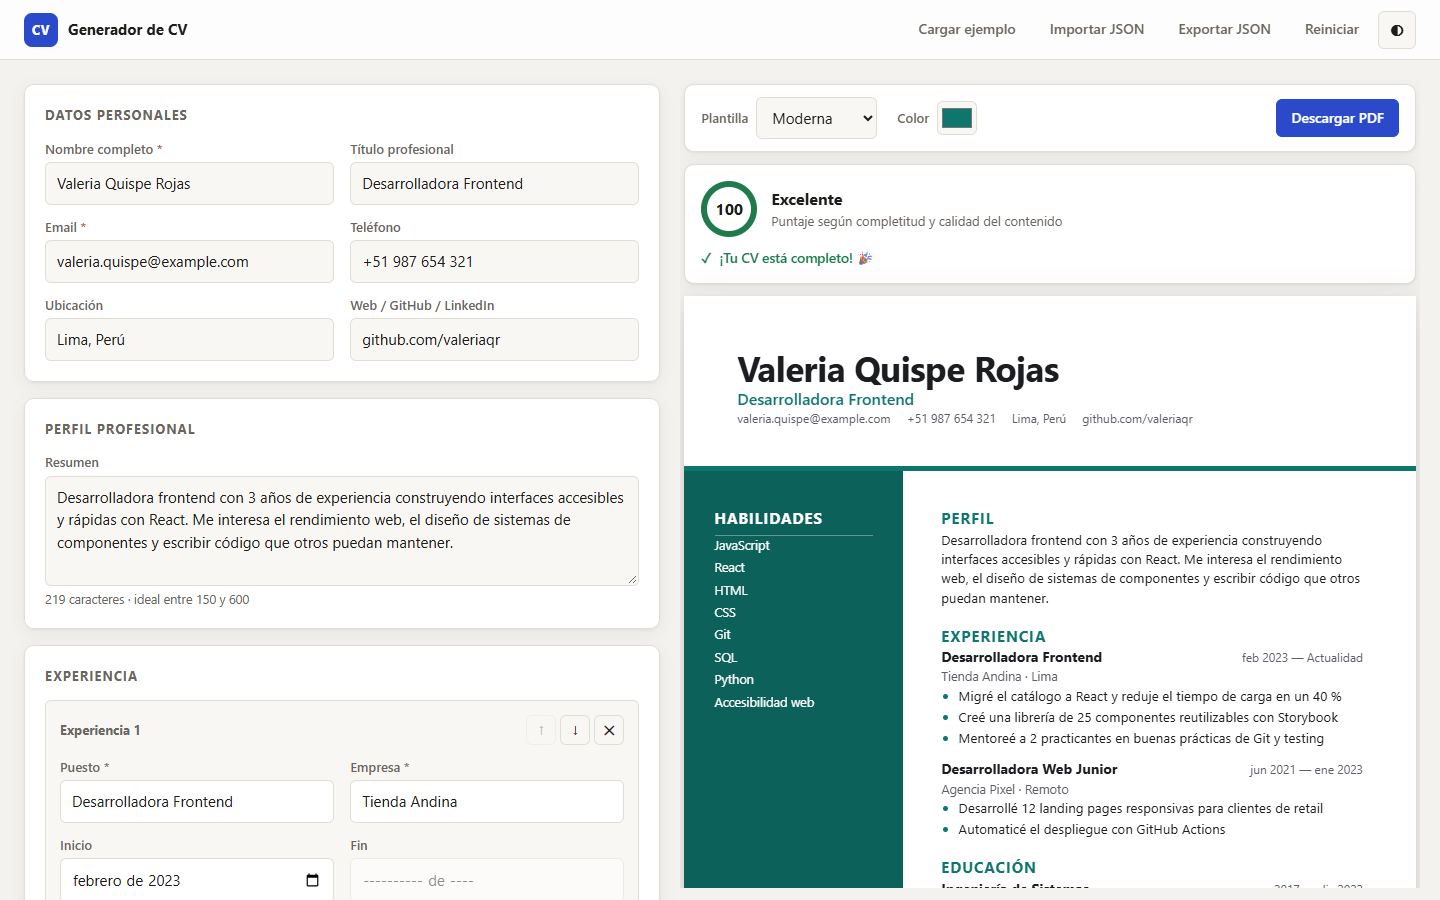
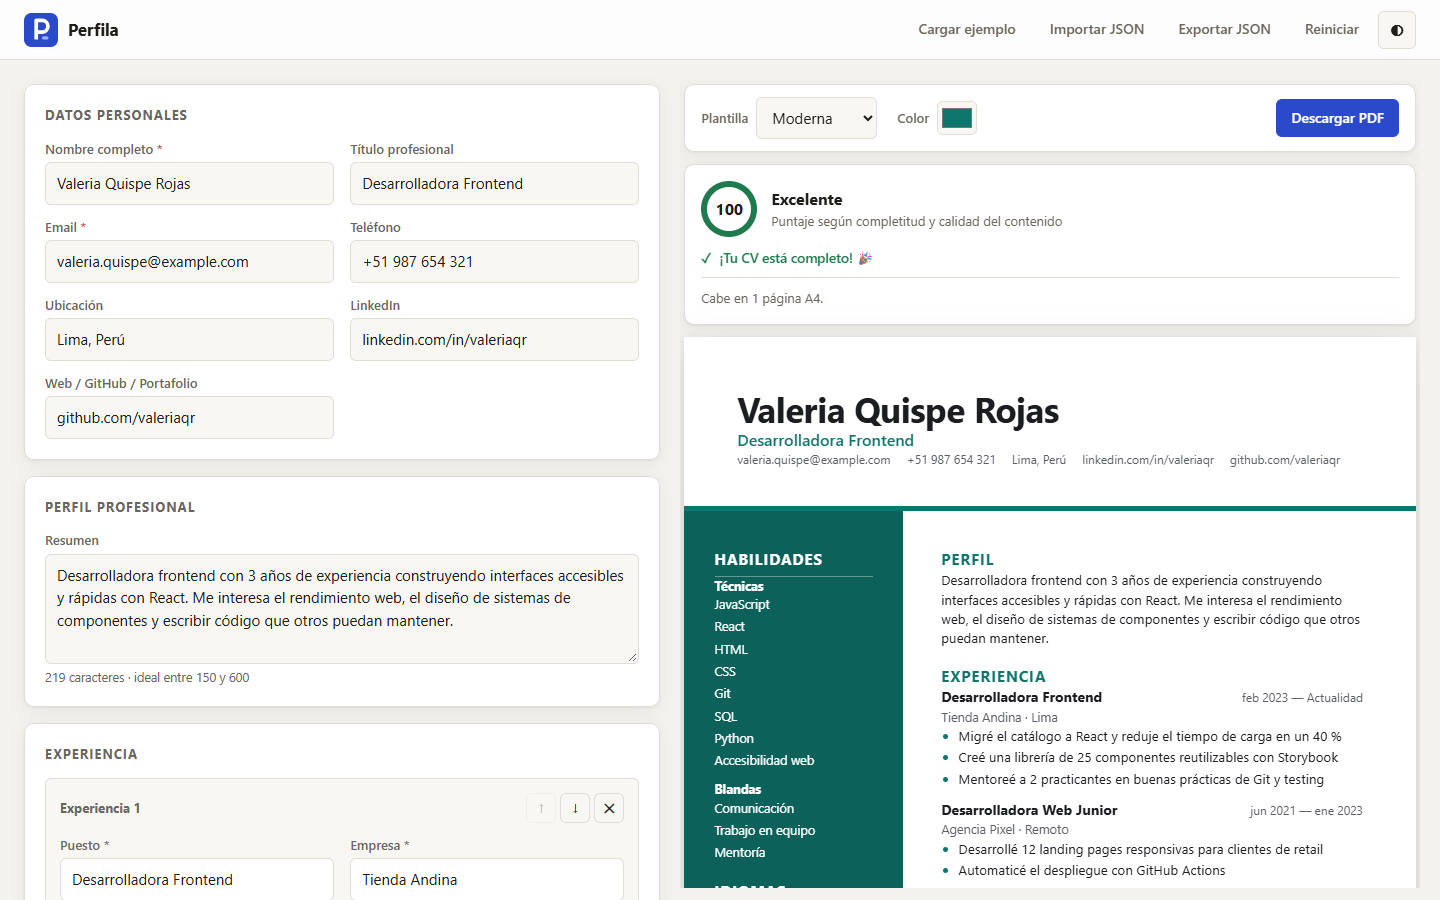
chore: versión 1.1.0

diff --git a/CHANGELOG.md b/CHANGELOG.md
@@ -3,7 +3,9 @@
 Todos los cambios relevantes de este proyecto se documentan aquí.
 El formato sigue [Keep a Changelog](https://keepachangelog.com/es-ES/1.1.0/) y el proyecto usa [versionado semántico](https://semver.org/lang/es/).
 
-## [Sin publicar]
+## [1.1.0] - 2026-10-16
+
+El generador pasa a llamarse **Perfila** y suma las secciones y avisos que pide un proceso de selección real.
 
 ### Añadido
 
@@ -58,5 +60,5 @@ Primera versión pública.
 - Los enlaces solo aceptan `http` y `https`.
 - Los datos importados se sanean y se limitan en tamaño antes de usarse.
 
-[Sin publicar]: https://github.com/Itsfavi0/cv-generator/compare/v1.0.0...HEAD
+[1.1.0]: https://github.com/Itsfavi0/cv-generator/compare/v1.0.0...v1.1.0
 [1.0.0]: https://github.com/Itsfavi0/cv-generator/releases/tag/v1.0.0

diff --git a/README.md b/README.md
@@ -8,7 +8,7 @@
 
 **Escribe tu currículum una vez, míralo en vivo con cuatro diseños y descárgalo como un PDF con texto real, legible por los sistemas ATS.** Sin cuentas, sin servidor y sin dependencias: todo ocurre en tu navegador.
 
-**🔗 [Ver demo en vivo](https://cv-generator-beryl-two.vercel.app/)** · [Notas de la versión 1.0.0](https://github.com/Itsfavi0/cv-generator/releases/tag/v1.0.0)
+**🔗 [Ver demo en vivo](https://cv-generator-beryl-two.vercel.app/)** · [Notas de la versión 1.1.0](CHANGELOG.md)
 
 ![Editor a la izquierda y vista previa del CV de ejemplo con la plantilla Moderna a la derecha](docs/screenshot.png)
 
